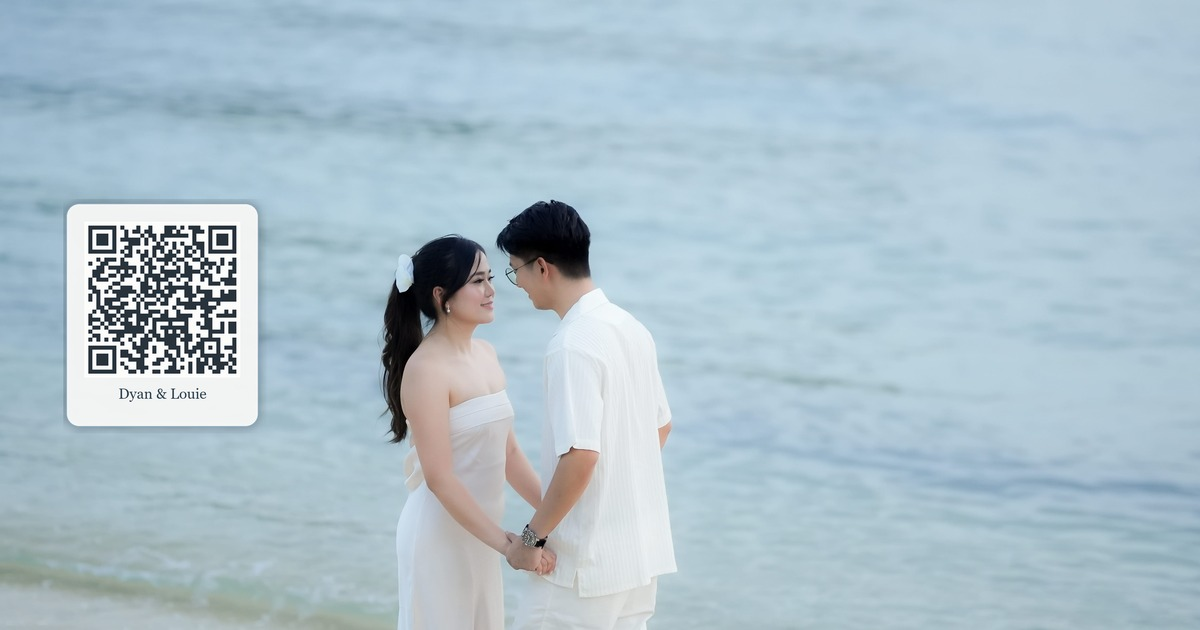
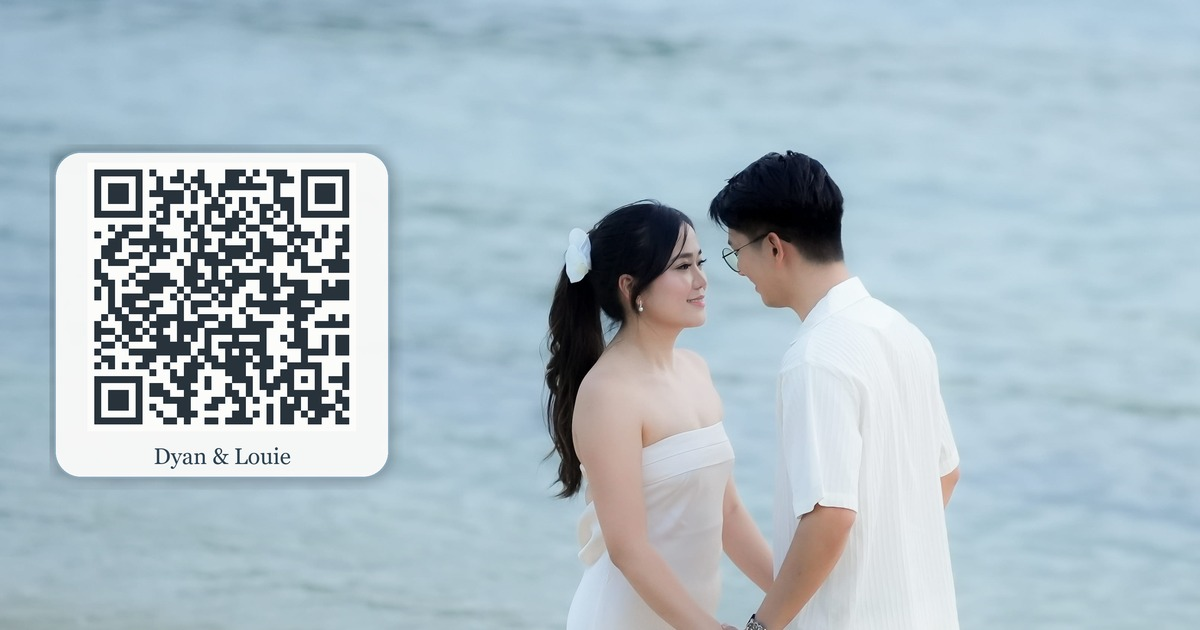
Thumbnail

diff --git a/scripts/compose_site_thumbnail.py b/scripts/compose_site_thumbnail.py
@@ -14,47 +14,57 @@ out_web = preview_dir / "site-thumbnail-preview.jpg"
 base = Image.open(base_path).convert("RGBA")
 W, H = base.size
 
+# Crop to the left/center so the couple sits on the right of the thumbnail
+og_w, og_h = 1200, 630
+crop_w = int(W * 0.70)
+crop_h = int(crop_w * og_h / og_w)
+left = 0
+top = max(0, (H - crop_h) // 2)
+region = base.crop((left, top, left + crop_w, top + crop_h))
+cw, ch = region.size
+
 qr = qrcode.QRCode(
     version=None,
     error_correction=ERROR_CORRECT_H,
-    box_size=12,
+    box_size=14,
     border=1,
 )
 qr.add_data(SITE_URL)
 qr.make(fit=True)
 qr_img = qr.make_image(fill_color="#27323B", back_color="#FCFCFB").convert("RGBA")
 
-qr_size = int(W * 0.13)
+# Card ~28% wide and ~52% tall; QR fills most of the card
+card_w = int(cw * 0.28)
+card_h = int(ch * 0.52)
+pad = int(card_w * 0.035)
+label_h = int(card_h * 0.11)
+qr_size = min(card_w - pad * 2, card_h - pad * 2 - label_h)
 qr_img = qr_img.resize((qr_size, qr_size), Image.Resampling.LANCZOS)
+radius = int(card_w * 0.08)
 
-pad = int(qr_size * 0.12)
-label_h = int(qr_size * 0.20)
-card_w = qr_size + pad * 2
-card_h = qr_size + pad * 2 + label_h
-radius = int(card_w * 0.07)
+x = int(cw * 0.045)
+y = (ch - card_h) // 2
 
-# Left section, inset so it sits in the photo without filling the whole side
-x = int(W * 0.055)
-y = int(H * 0.50) - card_h // 2
-
-shadow = Image.new("RGBA", (card_w + 40, card_h + 40), (0, 0, 0, 0))
+shadow = Image.new("RGBA", (card_w + 48, card_h + 48), (0, 0, 0, 0))
 sd = ImageDraw.Draw(shadow)
-sd.rounded_rectangle((10, 16, 10 + card_w, 16 + card_h), radius=radius, fill=(20, 30, 40, 90))
-shadow = shadow.filter(ImageFilter.GaussianBlur(18))
+sd.rounded_rectangle((12, 18, 12 + card_w, 18 + card_h), radius=radius, fill=(20, 30, 40, 90))
+shadow = shadow.filter(ImageFilter.GaussianBlur(20))
 
 card = Image.new("RGBA", (card_w, card_h), (0, 0, 0, 0))
 cd = ImageDraw.Draw(card)
-cd.rounded_rectangle((0, 0, card_w - 1, card_h - 1), radius=radius, fill=(252, 252, 251, 236))
+cd.rounded_rectangle((0, 0, card_w - 1, card_h - 1), radius=radius, fill=(252, 252, 251, 242))
 cd.rounded_rectangle(
     (0, 0, card_w - 1, card_h - 1),
     radius=radius,
     outline=(141, 174, 196, 180),
-    width=max(3, card_w // 180),
+    width=max(3, card_w // 160),
 )
-card.paste(qr_img, (pad, pad), qr_img)
+qr_x = (card_w - qr_size) // 2
+qr_y = pad
+card.paste(qr_img, (qr_x, qr_y), qr_img)
 
 font_path = Path(r"C:\Windows\Fonts\georgia.ttf")
-font_size = max(16, int(qr_size * 0.095))
+font_size = max(18, int(qr_size * 0.085))
 try:
     font = ImageFont.truetype(str(font_path), font_size)
 except OSError:
@@ -64,26 +74,21 @@ label = "Dyan & Louie"
 bbox = cd.textbbox((0, 0), label, font=font)
 tw, th = bbox[2] - bbox[0], bbox[3] - bbox[1]
 tx = (card_w - tw) / 2
-ty = pad + qr_size + (label_h - th) / 2 - 4
+ty = qr_y + qr_size + (card_h - (qr_y + qr_size) - th) / 2 - 2
 cd.text((tx, ty), label, font=font, fill=(45, 66, 81, 255))
 
-composed = base.copy()
-composed.alpha_composite(shadow, (x - 10, y - 16))
+composed = region.copy()
+composed.alpha_composite(shadow, (x - 12, y - 18))
 composed.alpha_composite(card, (x, y))
-rgb = composed.convert("RGB")
+rgb = composed.convert("RGB").resize((og_w, og_h), Image.Resampling.LANCZOS)
 
-# Open Graph 1200x630 crop from the composed photo
-og_w, og_h = 1200, 630
-crop_h = int(W * og_h / og_w)
-top = max(0, (H - crop_h) // 2)
-crop = rgb.crop((0, top, W, top + crop_h)).resize((og_w, og_h), Image.Resampling.LANCZOS)
 out_dir.mkdir(parents=True, exist_ok=True)
 preview_dir.mkdir(parents=True, exist_ok=True)
-crop.save(out_og, quality=92, optimize=True)
+rgb.save(out_og, quality=92, optimize=True)
 
-preview = crop.resize((1600, 840), Image.Resampling.LANCZOS)
+preview = rgb.resize((1600, 840), Image.Resampling.LANCZOS)
 preview.save(out_web, quality=90, optimize=True)
 
-print("og", crop.size, out_og)
-print("preview", preview.size, out_web)
-print("card", card_w, card_h, "pos", x, y)
+print("og", rgb.size, out_og)
+print("card", card_w, card_h, "qr", qr_size, "pos", x, y)
+print("region", cw, ch)
